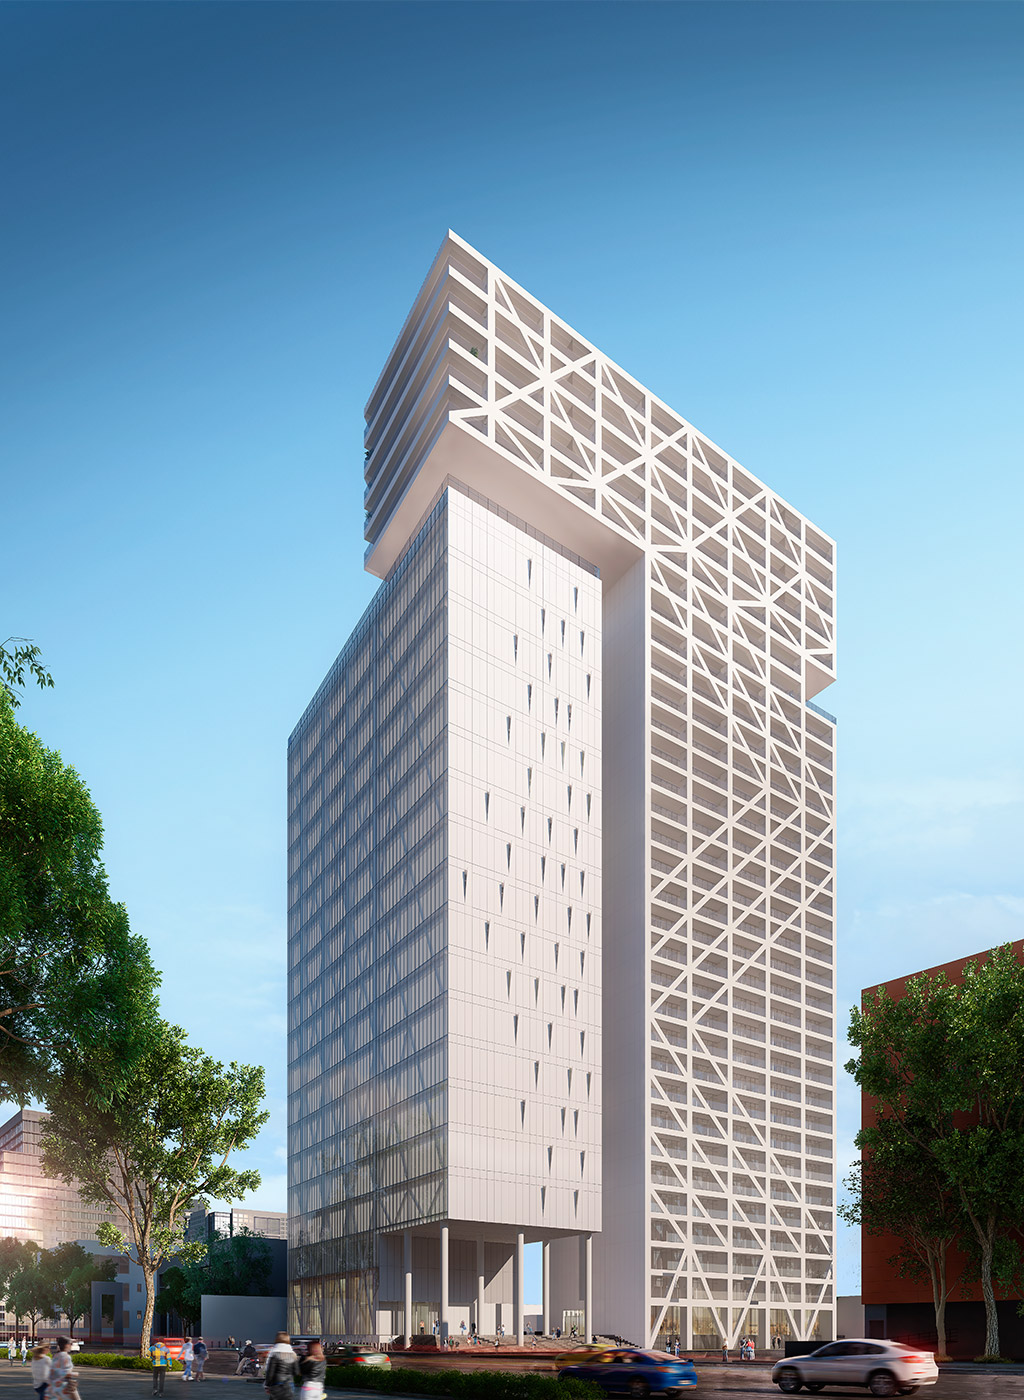
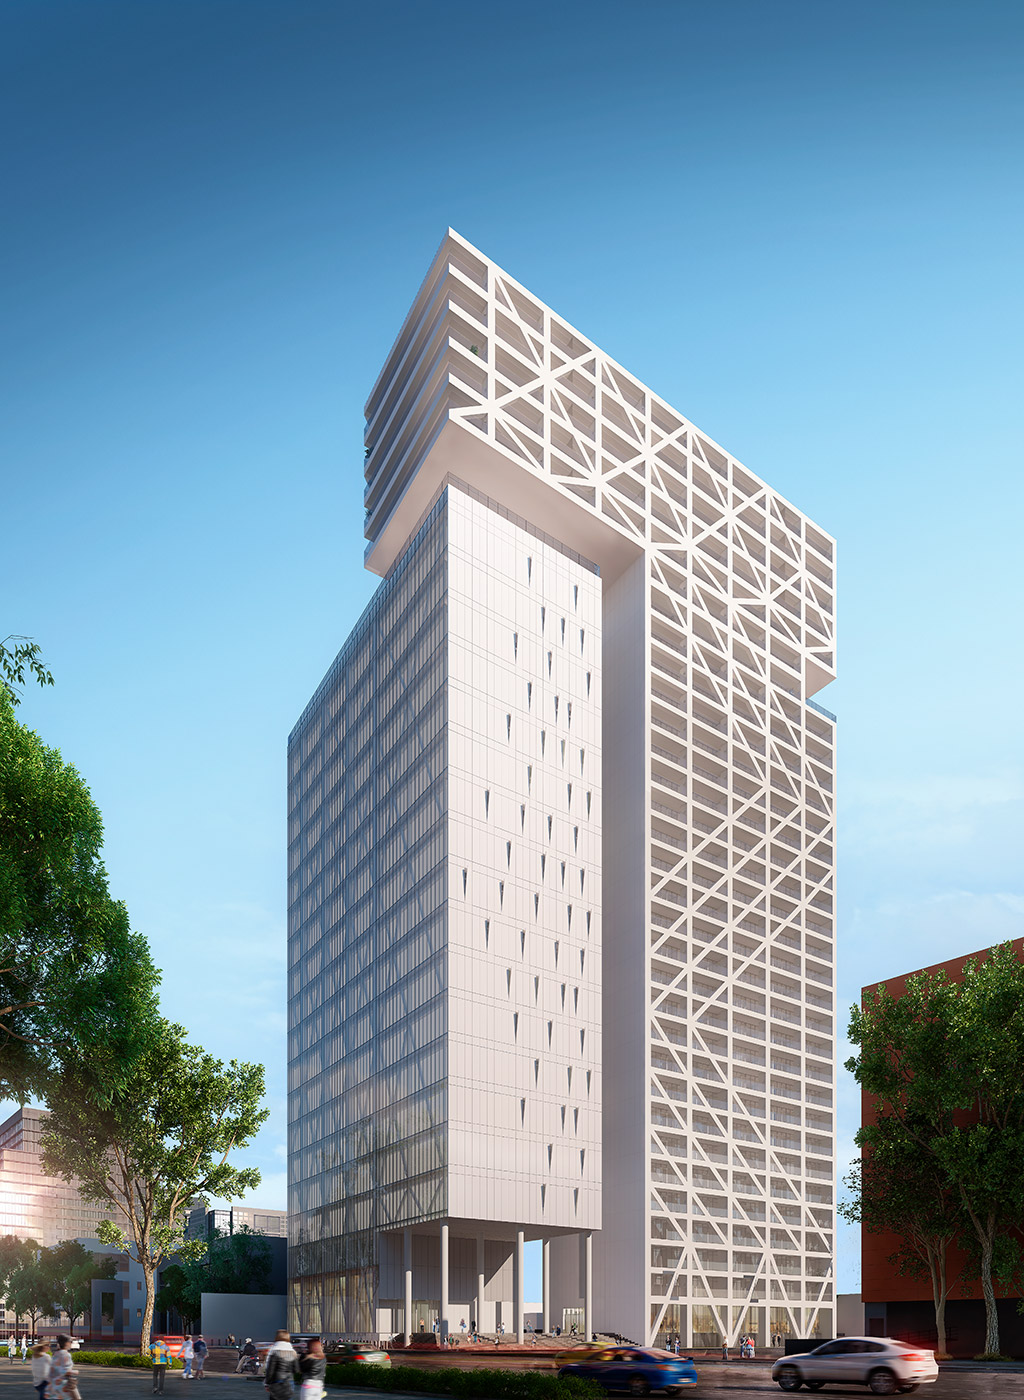
Updated Renders and added some information missing on schematic plans

diff --git a/js/Galeria.js b/js/Galeria.js
@@ -157,8 +157,20 @@ define(['jquery', 'underscore', 'backbone', 'hammer'], function($, _, Backbone, 
 				"showInfo": true
 			},
 			{
+				"uri":		"img/renders/popo_1b.png",
+				"thumb": 	"img/renders/thumbs/denn_1b.jpg",
+				"title":    "Exteriores",
+				"showInfo": true
+			},
+			{
 				"uri":		"img/renders/popo_2.jpg",
 				"thumb": 	"img/renders/thumbs/denn_2.jpg",
+				"title":    "Exteriores",
+				"showInfo": true
+			},
+			{
+				"uri":		"img/renders/popo_2b.jpg",
+				"thumb": 	"img/renders/thumbs/denn_2b.jpg",
 				"title":    "Exteriores",
 				"showInfo": true
 			},
@@ -186,6 +198,12 @@ define(['jquery', 'underscore', 'backbone', 'hammer'], function($, _, Backbone, 
 				"title":    "Exteriores",
 				"showInfo": true
 			},
+			{
+				"uri":		"img/renders/popo_7b.jpg",
+				"thumb": 	"img/renders/thumbs/denn_7b.jpg",
+				"title":    "Exteriores",
+				"showInfo": true
+			},
 
 			{
 				"uri":		"img/renders/popo_3.jpg",
@@ -194,17 +212,19 @@ define(['jquery', 'underscore', 'backbone', 'hammer'], function($, _, Backbone, 
 				"showInfo": true
 			},
 			{
-				"uri":		"img/renders/popo_11.jpg",
-				"thumb": 	"img/renders/thumbs/denn_11.jpg",
+				"uri":		"img/renders/popo_13.jpg",
+				"thumb": 	"img/renders/thumbs/denn_13.jpg",
 				"title":    "Plaza Central",
 				"showInfo": true
 			},
 			{
-				"uri":		"img/renders/popo_12.jpg",
-				"thumb": 	"img/renders/thumbs/denn_12.jpg",
+				"uri":		"img/renders/popo_14.jpg",
+				"thumb": 	"img/renders/thumbs/denn_14.jpg",
 				"title":    "Plaza Central",
 				"showInfo": true
 			},
+
+
 
 			{
 				"uri":		"img/renders/popo_8.jpg",
@@ -289,7 +309,8 @@ define(['jquery', 'underscore', 'backbone', 'hammer'], function($, _, Backbone, 
 				"colorCode": {
 					gray: 'Área de Oficinas',
 					blue: 'Servicios',
-					green: 'Circulaciones'
+					green: 'Circulaciones',
+					beige: 'Área de Vivienda'
 				}
 			},
 			{
@@ -381,10 +402,9 @@ define(['jquery', 'underscore', 'backbone', 'hammer'], function($, _, Backbone, 
 				"info":     "",
 				"showInfo": true,
 				"colorCode": {
-					gray: 'Lobby de Oficinas',
-					blue: 'Comercio',
-					green: 'Circulaciones',
-					beige: 'Lobby de Vivienda'
+					gray: 'Área de Oficinas',
+					green: 'Estacionamiento',
+					beige: 'Área de Vivienda'
 				}
 			}
 		]);
@@ -435,21 +455,21 @@ define(['jquery', 'underscore', 'backbone', 'hammer'], function($, _, Backbone, 
 		 photoHolder.html( image );
 	     photoHolder.find("img").hide().fadeIn(600);
 
-	     // show additional information
-	     if(selectedThumb.attributes.showInfo){
-	     	infoHolder.show();
-		    if( selectedThumb.attributes.title ){
-		     	infoHolder.find(".info__title")
-		     	.show()
-		     	.html( selectedThumb.attributes.title );
-		    } else {
-		     	infoHolder.find(".info__title").hide()
-		    }
-		    if( selectedThumb.attributes.info )
-		     	infoHolder.find(".info__content").html( selectedThumb.attributes.info );
-		 } else {
-		 	infoHolder.hide();
-		 }
+	  //    // show additional information
+	  //    if(selectedThumb.attributes.showInfo){
+	  //    	infoHolder.show();
+		 //    if( selectedThumb.attributes.title ){
+		 //     	infoHolder.find(".info__title")
+		 //     	.show()
+		 //     	.html( selectedThumb.attributes.title );
+		 //    } else {
+		 //     	infoHolder.find(".info__title").hide()
+		 //    }
+		 //    if( selectedThumb.attributes.info )
+		 //     	infoHolder.find(".info__content").html( selectedThumb.attributes.info );
+		 // } else {
+		 // 	infoHolder.hide();
+		 // }
 
 		 //
 		 var colorCodesContainer = $(this.el).find('.color-codes');

diff --git a/renders.html b/renders.html
@@ -1,7 +1,7 @@
 <div class="gallery renders">
 	<div class="info">
-		<h3 class="info__title interiores">Interiores</h3>
 		<h3 class="info__title exteriores">Exteriores</h3>
+		<h3 class="info__title interiores">Interiores</h3>
 		<div class="info__content"></div>
 	</div>
 	<div class="photo_holder">
